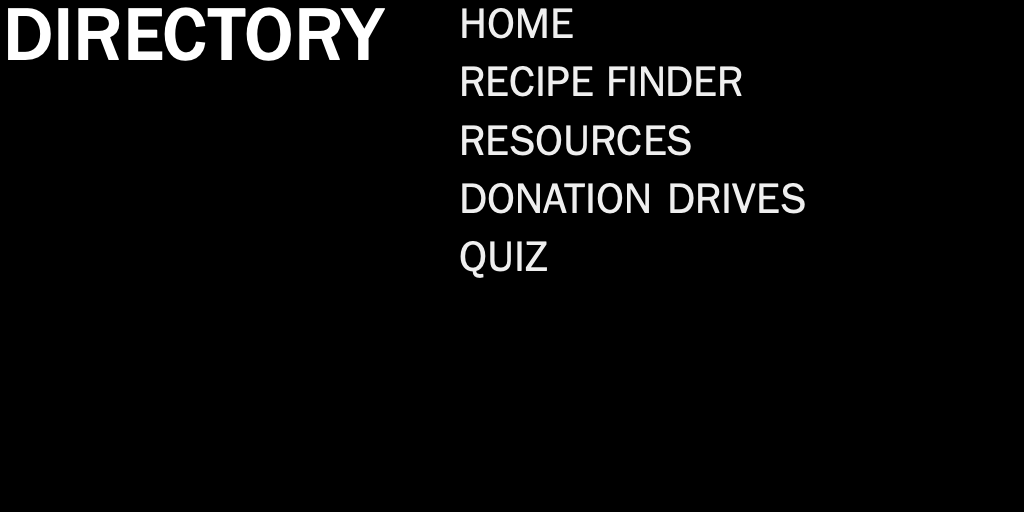
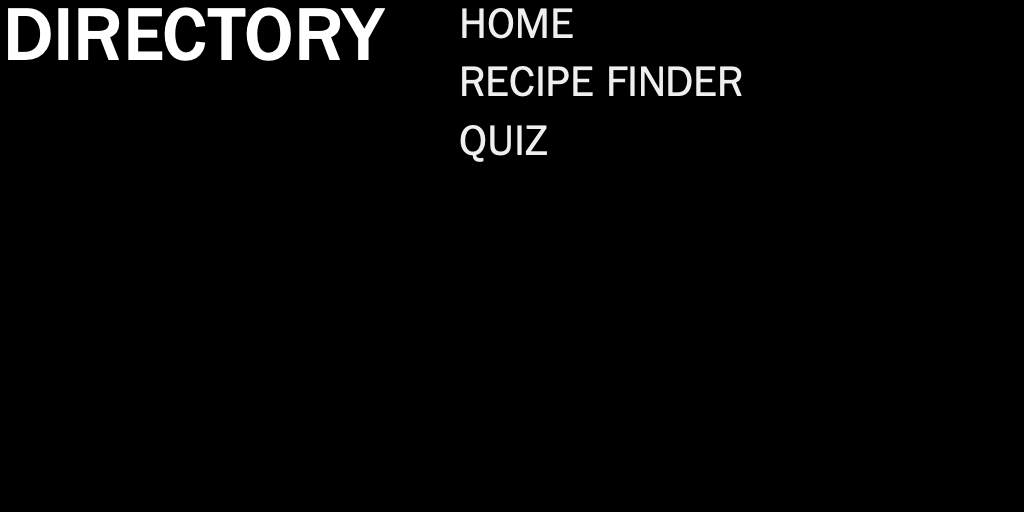
updated quiz and directory labels on car page

Changed region(s): [[0.4375, 0.3438, 0.7812, 0.4375], [0.4375, 0.2188, 0.6875, 0.3125], [0.4375, 0.4688, 0.5312, 0.5312]]

diff --git a/public/folio-2019/src/javascript/Resources.js b/public/folio-2019/src/javascript/Resources.js
@@ -130,7 +130,7 @@ export default class Resources extends EventEmitter
             { name: 'informationContactTwitterLabel', source: './models/information/static/homeLabel.png', type: 'texture' },
             { name: 'informationContactGithubLabel', source: './models/information/static/recipesLabel.png', type: 'texture' },
             { name: 'informationContactLinkedinLabel', source: './models/information/static/contactLinkedinLabel.png', type: 'texture' },
-            { name: 'informationContactMailLabel', source: './models/information/static/logoutLabel.png', type: 'texture' },
+            { name: 'informationContactMailLabel', source: './models/information/static/quizLabel.png', type: 'texture' },
 
             { name: 'informationActivities', source: './models/information/static/directory.png', type: 'texture' },
 
